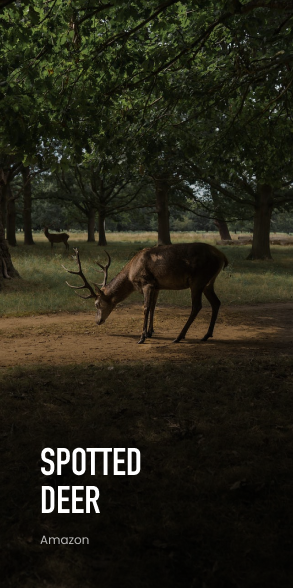
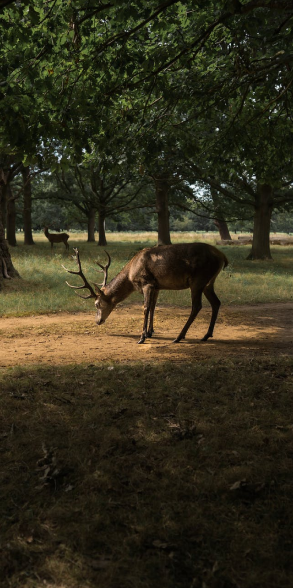
Refined styles and interactivity for the photo gallery
- Updated styles.css to enhance hover animations and visibility of text elements
- Improved script.js for better interactivity and performance
- Modified index.html structure for better semantic layout
- Updated image assets to new versions for improved visual quality

diff --git a/interactive-photo-gallery/index.html b/interactive-photo-gallery/index.html
@@ -9,35 +9,43 @@
 <body>
     <div class="gallery">
         <div class="gallery-item">
-            <img src="fox.png" alt="Fennec Fox" class="gallery-image">
-            <div class="hover-info">
-                <h2>Fennec Fox</h2>
-                <p>India</p>
-                <a href="#">Know More</a>
+            <img src="images/fox.png" alt="Fennec Fox" class="gallery-image">
+            <div class="overlay">
+                <div class="text">
+                 <h2>FENNEC FOX</h2>
+                 <p>India</p>
+                 <a href="#">Know more →</a>
+               </div>
             </div>
         </div>
         <div class="gallery-item">
-            <img src="whale.png" alt="Humpback Whale" class="gallery-image">
-            <div class="hover-info">
-                <h2>Humpback Whale</h2>
-                <p>South Africa</p>
-                <a href="#">Know More</a>
+            <img src="images/whale.png" alt="Humpback Whale" class="gallery-image">
+            <div class="overlay">
+                <div class="text">
+                  <h2>HUMPBACK WHALE</h2>
+                  <p>South Africa</p>
+                  <a href="#">Know more →</a>
+                </div> 
             </div>
         </div>
         <div class="gallery-item">
-            <img src="baboon.png" alt="Common Brown Baboon" class="gallery-image">
-            <div class="hover-info">
-                <h2>Common Brown Baboon</h2>
-                <p>South Africa</p>
-                <a href="#">Know More</a>
+            <img src="images/baboon.png" alt="Common Brown Baboon" class="gallery-image">
+            <div class="overlay">
+                <div class="text">
+                  <h2>COMMON BROWN BABOON</h2>
+                  <p>South Africa</p>
+                  <a href="#">Know more →</a>
+                </div> 
             </div>
         </div>
         <div class="gallery-item">
-            <img src="deer.png" alt="Spotted Deer" class="gallery-image">
-            <div class="hover-info">
-                <h2>Spotted Deer</h2>
-                <p>Amazon</p>
-                <a href="#">Know More</a>
+            <img src="images/deer.png" alt="Spotted Deer" class="gallery-image">
+            <div class="overlay">
+                <div class="text">
+                  <h2>SPOTTED DEER</h2>
+                  <p>Amazon</p>
+                  <a href="#">Know more →</a>
+                </div>
             </div>
         </div>
     </div>

diff --git a/interactive-photo-gallery/styles.css b/interactive-photo-gallery/styles.css
@@ -1,0 +1,86 @@
+body {
+    margin: 0;
+    font-family: Arial, sans-serif;
+    background-color: black;
+}
+
+.gallery {
+    display: flex;
+    margin-left: 100px;
+    margin-right: 100px;
+    margin-top: 30px;
+    margin-bottom: 30px;
+}
+
+.gallery-item {
+    position: relative;
+    flex: 1 1 25%;
+    overflow: hidden;
+    
+}
+
+.gallery-item img {
+    width: 100%;
+    height: auto;
+    display: block;
+    right: 5px;
+    transition: filter 0.3s, transform 0.3s;
+}
+
+.gallery-item .overlay {
+    position: absolute;
+    top: 0;
+    left: 0;
+    right: 0;
+    bottom: 0;
+    background: rgba(0, 0, 0, 0.5); 
+    display: flex;
+    flex-direction: column;
+    justify-content: flex-end;
+    align-items: flex-start;
+    padding: 20px;
+    box-sizing: border-box;
+    transition: transform 0.3s;
+}
+
+.gallery-item .text {
+    color: white;
+    font-size: 16px;
+    transform: translateY(0);
+    transition: transform 0.3s;
+    
+}
+
+.gallery-item .text a {
+    opacity: 0;
+    transition: opacity 0.3s, transform 0.3s;
+    color: skyblue;
+    margin-top: 10px;
+}
+
+.gallery-item:hover img {
+    filter: blur(5px) grayscale(100%);
+    transform: scale(1.05);
+}   
+
+.gallery-item:hover .overlay {
+    
+    transform: translateY(-10px);
+}
+
+.gallery-item:hover .text {
+    transform: translateY(-10px); 
+}
+
+.gallery-item:hover .text a {
+    opacity: 1;
+    transform: translateY(-5px);
+}
+
+.gallery-item .text h2, .gallery-item .text p {
+    margin: 0;
+}
+
+.gallery-item .text h2 {
+    margin-bottom: 10px; 
+}

diff --git a/interactive-photo-gallery/script.js b/interactive-photo-gallery/script.js
@@ -1,0 +1,11 @@
+document.querySelectorAll('.gallery-item').forEach(item => {
+    item.addEventListener('mouseover', () => {
+        item.querySelector('img').classList.add('blur');
+        item.querySelector('.overlay').classList.add('visible');
+    });
+
+    item.addEventListener('mouseout', () => {
+        item.querySelector('img').classList.remove('blur');
+        item.querySelector('.overlay').classList.remove('visible');
+    });
+});
